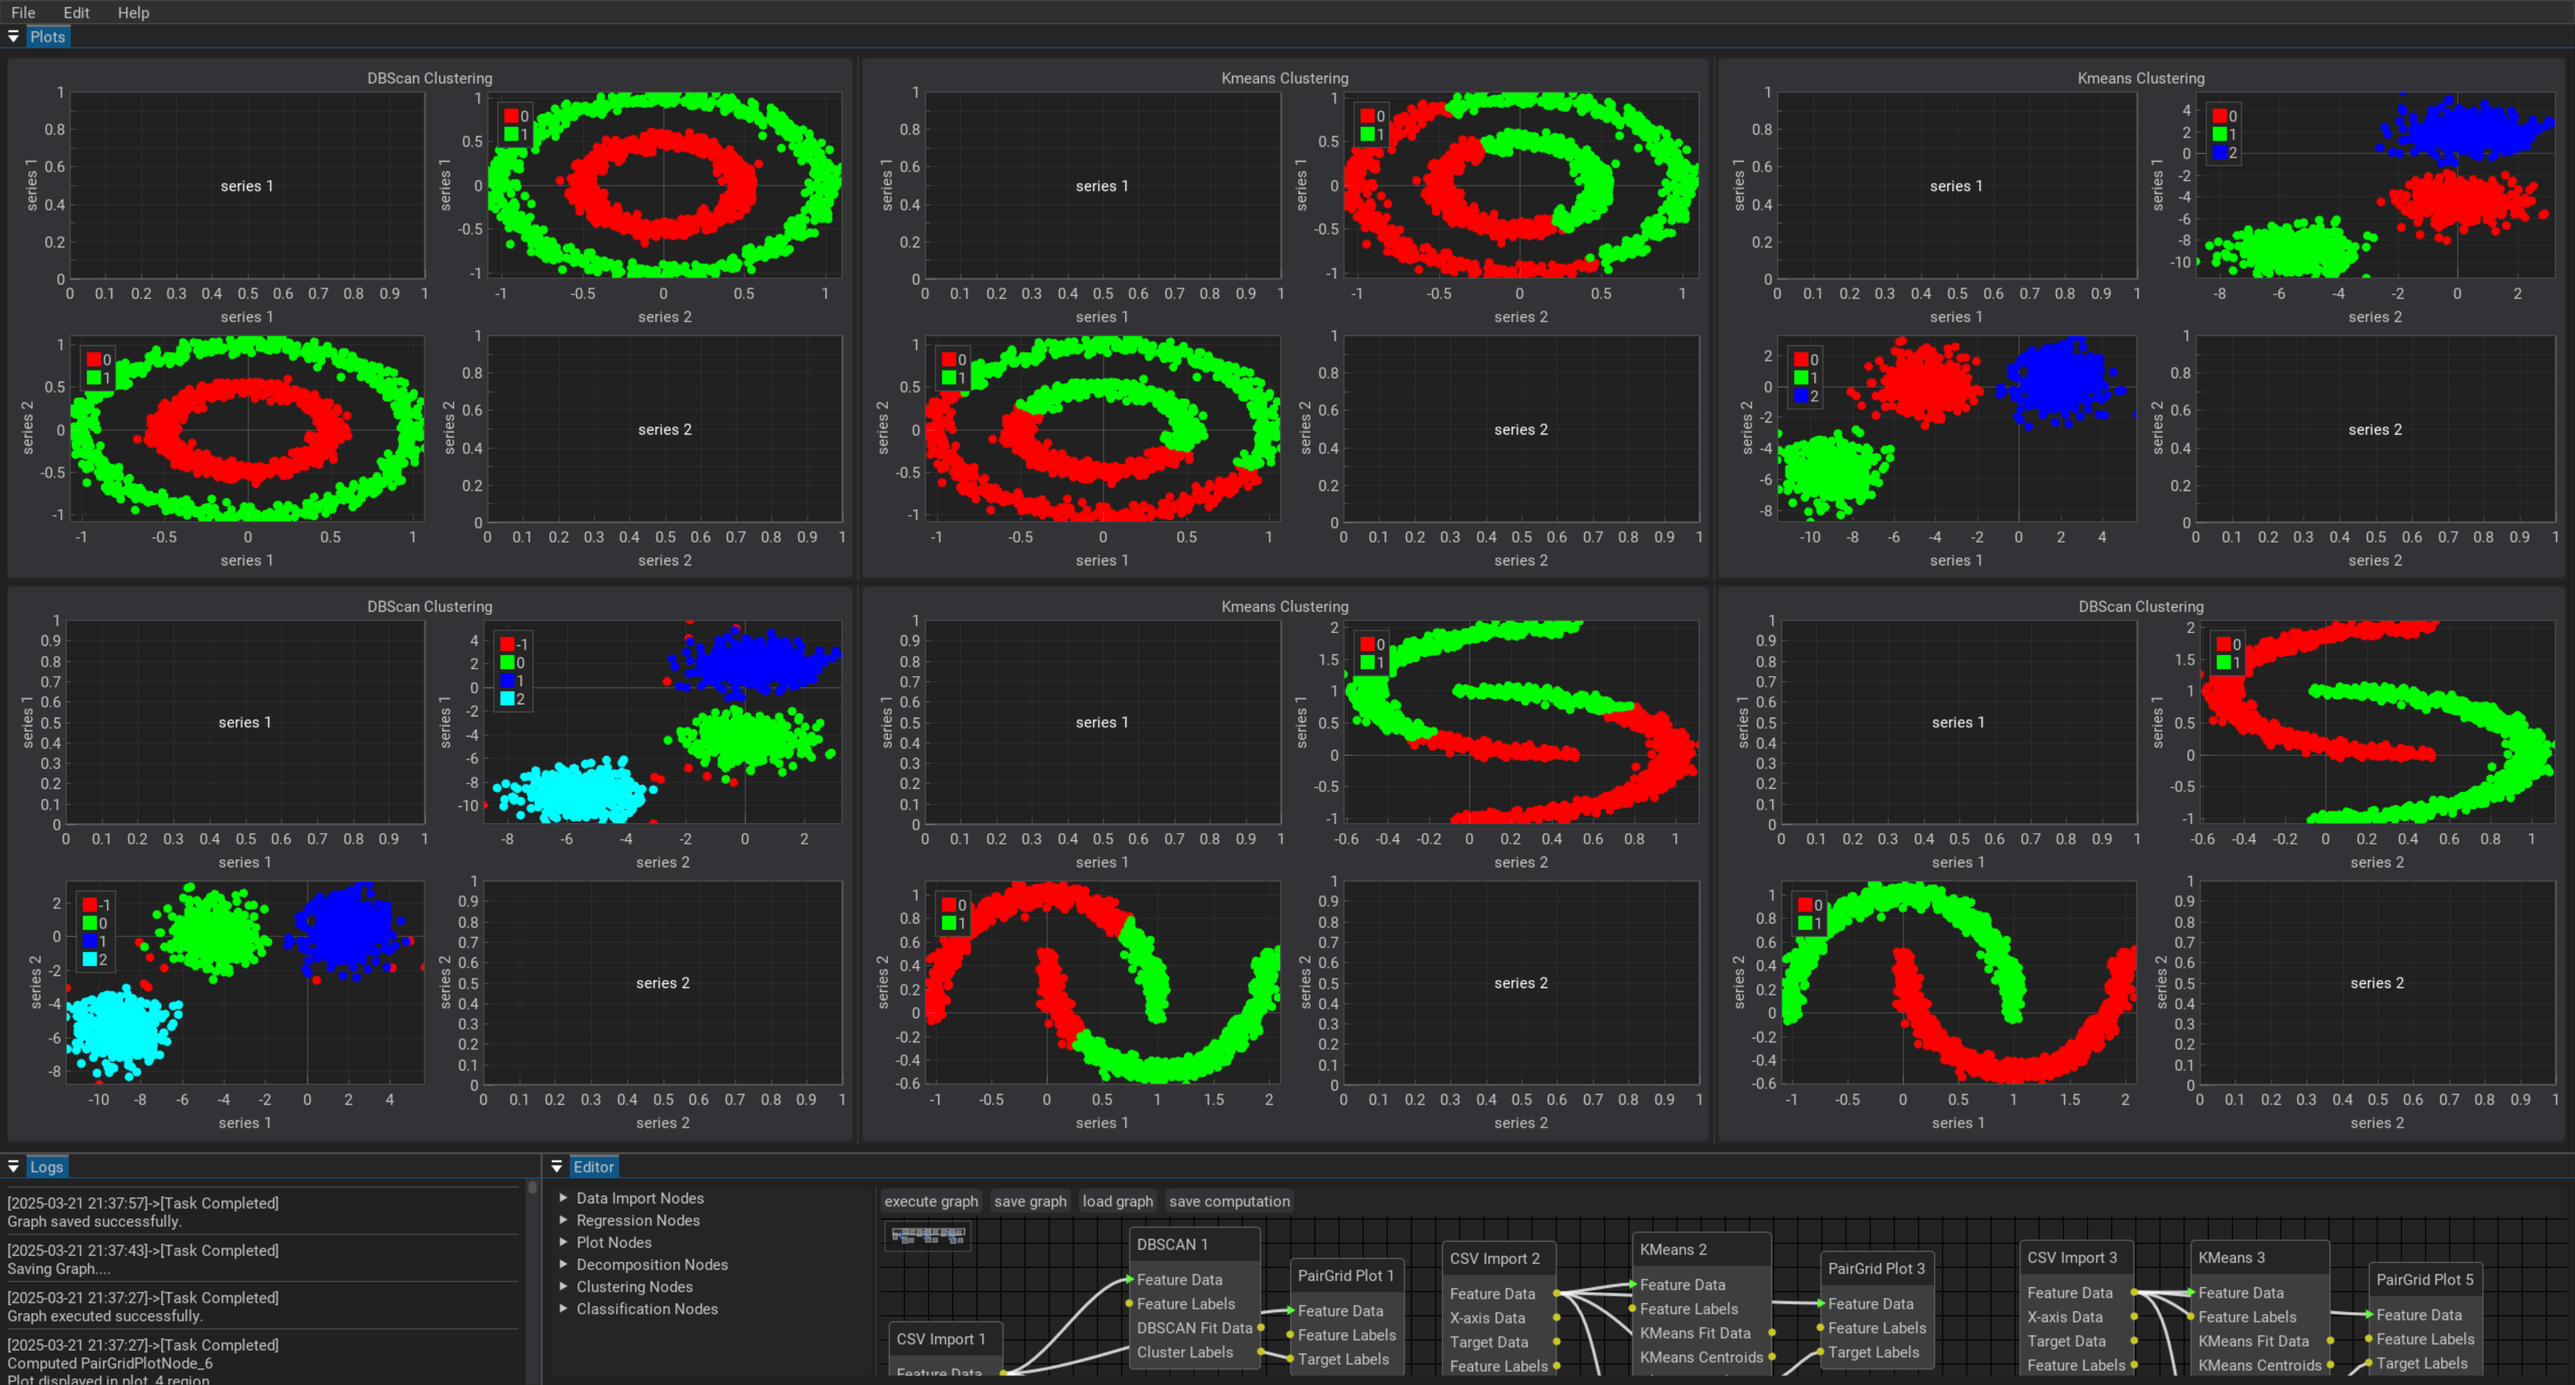
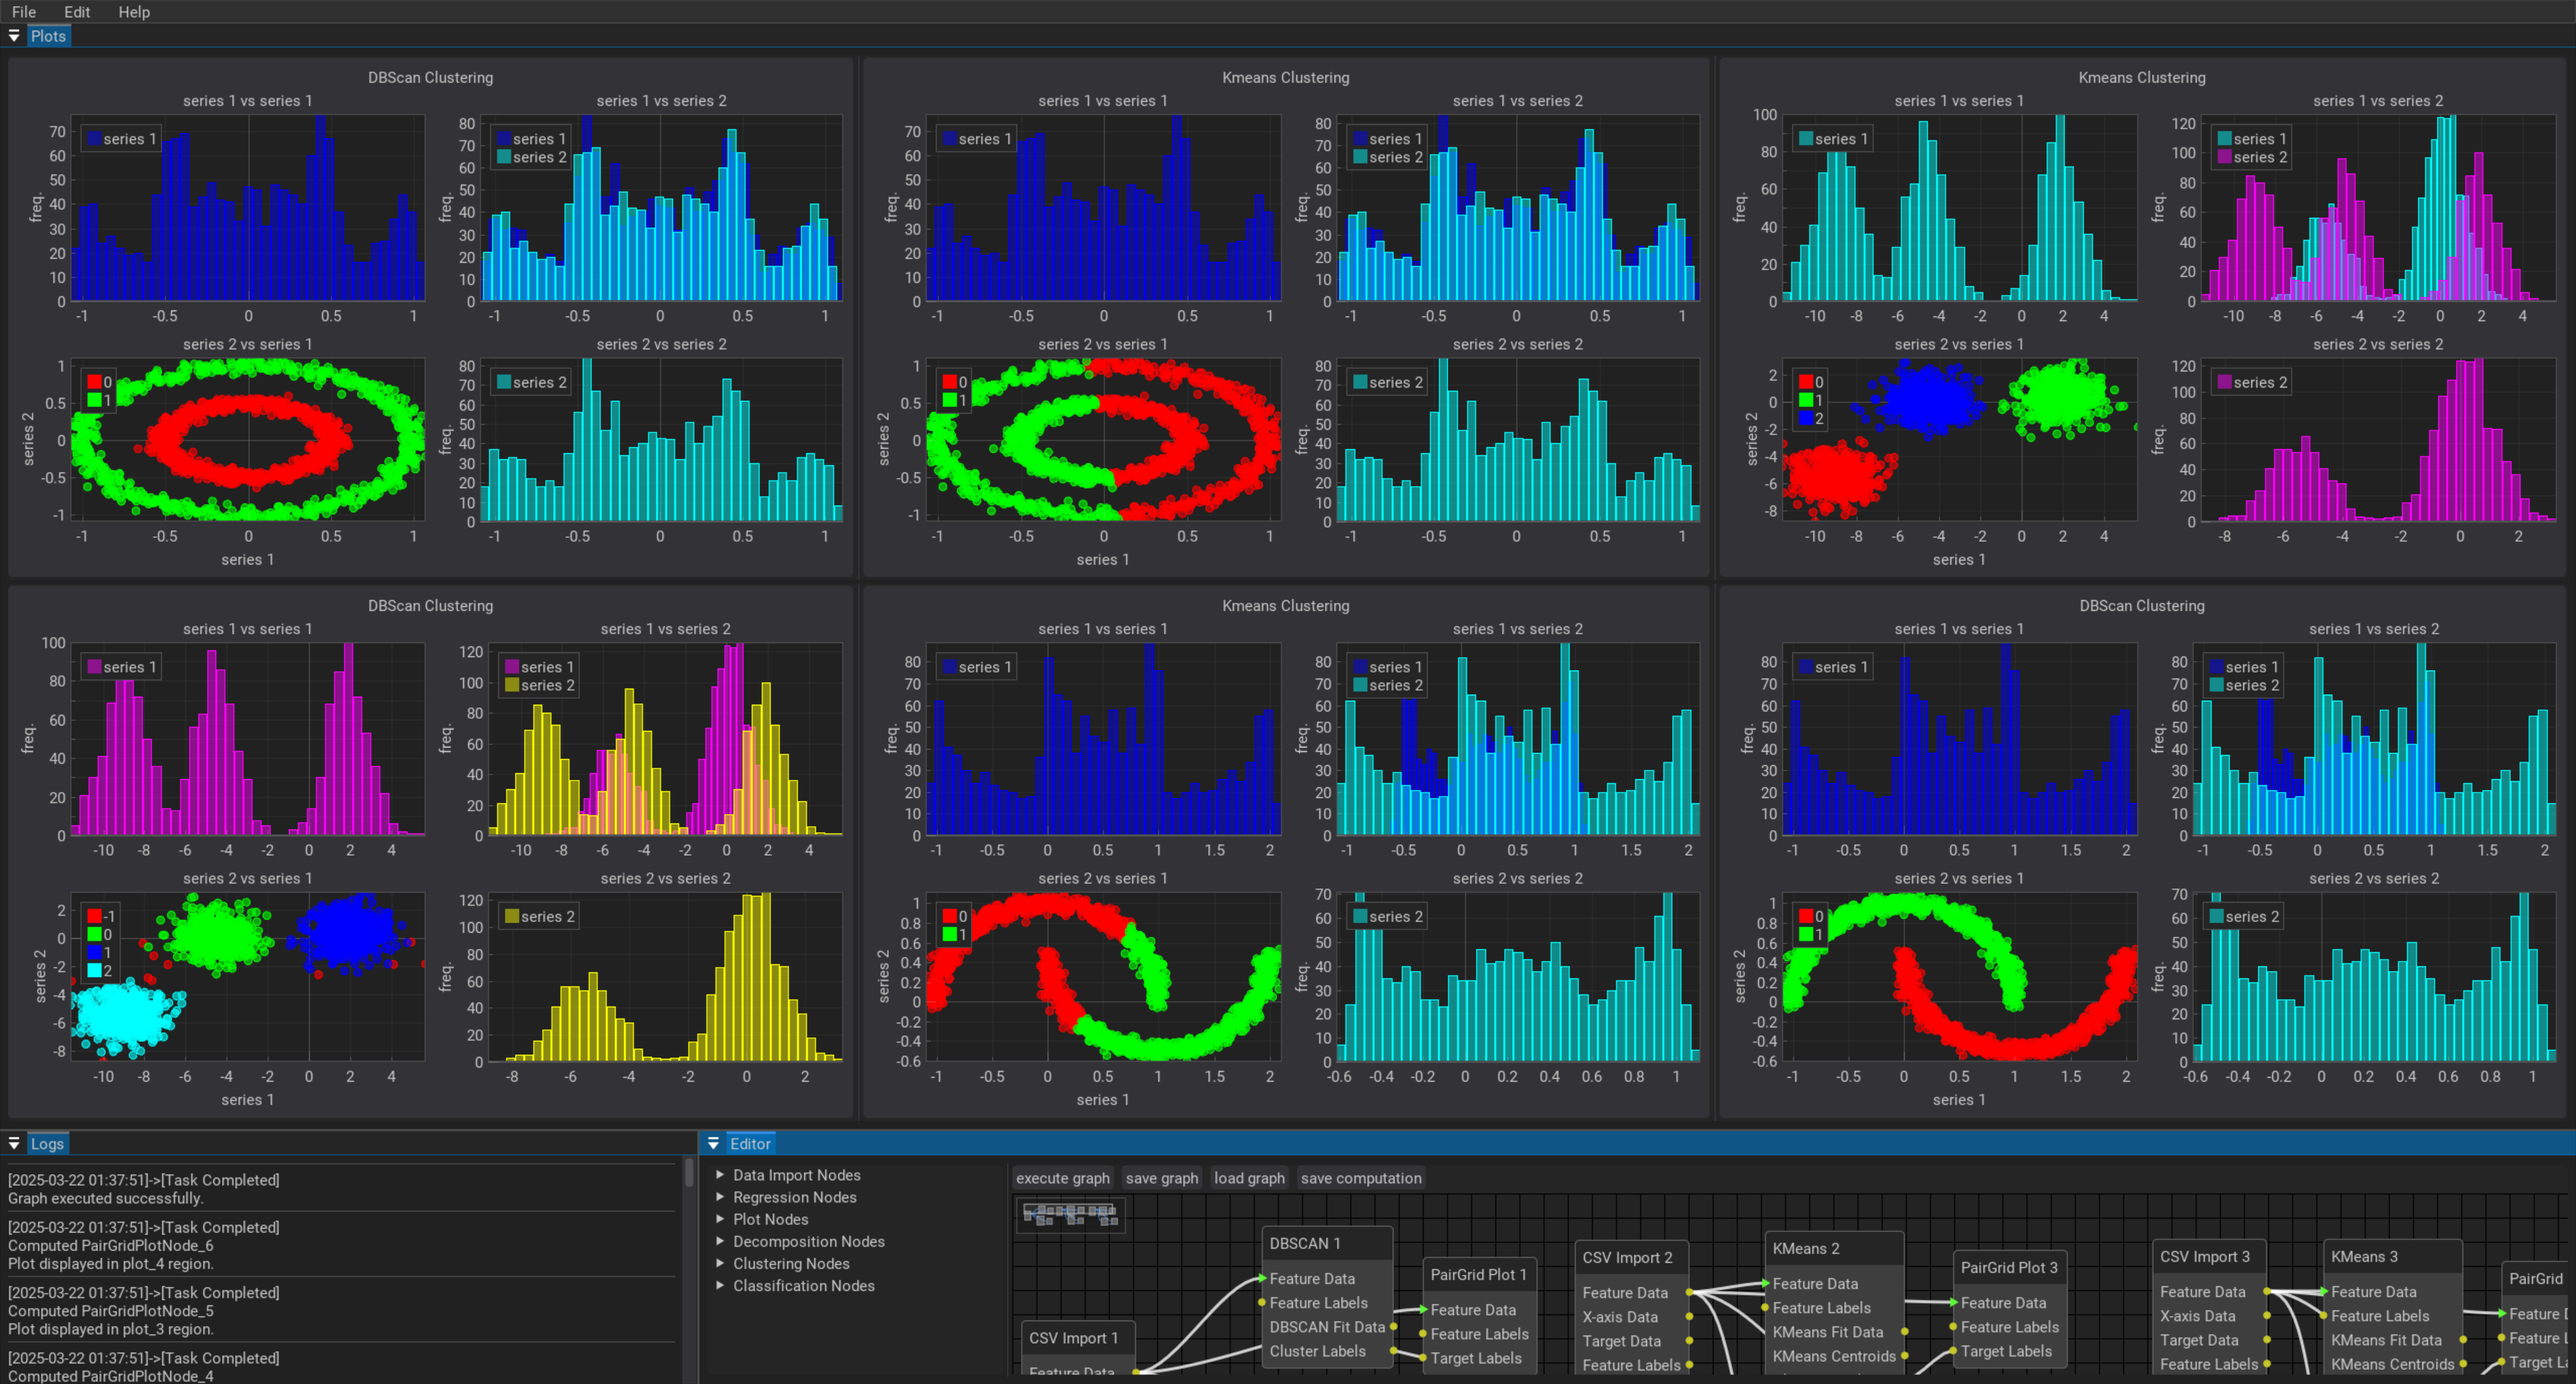
updated pairgrid plot

diff --git a/app/ui/plot_area.py b/app/ui/plot_area.py
@@ -25,12 +25,23 @@ class BasePlot:
                 dpg.add_theme_style(dpg.mvPlotStyleVar_LineWeight, 3, category=dpg.mvThemeCat_Plots)
     
     def create_scatter_theme(self, tag: str, color: tuple[int, int, int, int], marker_style: int = dpg.mvPlotMarker_Circle):
+        adjusted_color = [col for col in color]
+        adjusted_color[-1] = 150
         with dpg.theme(tag=tag):
             with dpg.theme_component(dpg.mvScatterSeries):
-                dpg.add_theme_color(dpg.mvPlotCol_MarkerFill, color, category=dpg.mvThemeCat_Plots)
+                dpg.add_theme_color(dpg.mvPlotCol_MarkerFill, adjusted_color, category=dpg.mvThemeCat_Plots)
                 dpg.add_theme_color(dpg.mvPlotCol_MarkerOutline, color, category=dpg.mvThemeCat_Plots)
                 dpg.add_theme_style(dpg.mvPlotStyleVar_Marker, marker_style, category=dpg.mvThemeCat_Plots)
                 dpg.add_theme_style(dpg.mvPlotStyleVar_MarkerSize, 4, category=dpg.mvThemeCat_Plots)
+    
+    def create_histogram_theme(self, tag: str, color: tuple[int, int, int, int]):
+        adjusted_color = [col for col in color]
+        adjusted_color[-1] = 120
+        with dpg.theme(tag=tag):
+            with dpg.theme_component(dpg.mvHistogramSeries):
+                dpg.add_theme_color(dpg.mvPlotCol_Fill, tuple(adjusted_color), category=dpg.mvThemeCat_Plots)
+                dpg.add_theme_color(dpg.mvPlotCol_Line, color, category=dpg.mvThemeCat_Plots)
+        
     
     def generate_marker_colors(self, num_colors=30):
         colors = []
@@ -210,9 +221,16 @@ class PairGridPlot(BasePlot):
             return
         n_features = min(data.shape[1], 5)
         if plot_data["labels"] is None:
-            labels = [f"Var {i+1}" for i in range(n_features)]
+            feature_labels = [f"Var {i+1}" for i in range(n_features)]
         else:
-            labels = plot_data["labels"]
+            feature_labels = plot_data["labels"]
+        
+        labels_count = len(feature_labels)
+        unique_labels = None
+        if plot_data["target_label"] is not None and \
+            plot_data["target_label"].shape[0] == data.shape[0]:
+            unique_labels = np.unique(plot_data["target_label"])
+            labels_count = len(unique_labels)
         
         self.clear_plot_region(node_params["region"])
         with dpg.subplots(label=f"{node_params['title']}",
@@ -223,34 +241,68 @@ class PairGridPlot(BasePlot):
             for i in range(n_features):
                 for j in range(n_features):
                     cell_tag = f"pairgrid_{i}_{j}_{dpg.generate_uuid()}"
-                    with dpg.plot(label="", height=150, width=150, tag=cell_tag):
+                    with dpg.plot(label=f"{feature_labels[i]} vs {feature_labels[j]}", height=150, width=150, tag=cell_tag):
                         dpg.add_plot_legend()
                         x_axis_tag = cell_tag + "_x"
                         y_axis_tag = cell_tag + "_y"
-                        dpg.add_plot_axis(dpg.mvXAxis, label=labels[j], tag=x_axis_tag)
-                        dpg.add_plot_axis(dpg.mvYAxis, label=labels[i], tag=y_axis_tag)
+                        
                         
                         if i == j:
-                            dpg.add_plot_annotation(label=labels[i], default_value=(0.5, 0.5), parent=cell_tag)
+                            dpg.add_plot_axis(dpg.mvXAxis, label="", tag=x_axis_tag)
+                            dpg.add_plot_axis(dpg.mvYAxis, label="freq.", tag=y_axis_tag)
+
+                            this_plot_tag = cell_tag + f"hist_{feature_labels[i]}"
+                            this_plot_theme = cell_tag + f"hist_theme_{feature_labels[i]}"
+                            dpg.add_histogram_series(data[:, i].tolist(), label=feature_labels[i], parent=y_axis_tag, tag=this_plot_tag)
+                            self.create_histogram_theme(this_plot_theme, self.colors[(labels_count + i) % 30])
+                            dpg.bind_item_theme(this_plot_tag, this_plot_theme)
+                            self.track_tags[node_params["region"]].append(this_plot_theme)
+                            self.track_tags[node_params["region"]].append(this_plot_tag)
                         else:
-                            if plot_data["target_label"] is not None and \
-                                plot_data["target_label"].shape[0] == data.shape[0]:
-                                unique_labels = np.unique(plot_data["target_label"])
-                                for idx, label in enumerate(unique_labels):
-                                    indices = [k for k, l in enumerate(plot_data["target_label"]) if l == label]
-                                    x = data[indices, j].tolist()
-                                    y = data[indices, i].tolist()
-                                    this_plot_tag = cell_tag + f"scatter_{label}_{idx}"
-                                    dpg.add_scatter_series(x, y, label=f"{label}", parent=y_axis_tag, tag=this_plot_tag)
-                                    this_plot_theme = cell_tag + f"_theme_{label}_{idx}"
-                                    self.create_scatter_theme(this_plot_theme, self.colors[idx%30])
-                                    dpg.bind_item_theme(this_plot_tag, this_plot_theme)
-                                    self.track_tags[node_params["region"]].append(this_plot_theme)
-                                    self.track_tags[node_params["region"]].append(this_plot_tag)
+                            if i > j:
+                                dpg.add_plot_axis(dpg.mvXAxis, label=feature_labels[j], tag=x_axis_tag)
+                                dpg.add_plot_axis(dpg.mvYAxis, label=feature_labels[i], tag=y_axis_tag)
+                                if unique_labels is not None:
+                                    for idx, label in enumerate(unique_labels):
+                                        indices = [k for k, l in enumerate(plot_data["target_label"]) if l == label]
+                                        x = data[indices, j].tolist()
+                                        y = data[indices, i].tolist()
+                                        this_plot_tag = cell_tag + f"scatter_{label}_{idx}"
+                                        dpg.add_scatter_series(x, y, label=f"{label}", parent=y_axis_tag, tag=this_plot_tag)
+                                        this_plot_theme = cell_tag + f"_theme_{label}_{idx}"
+                                        self.create_scatter_theme(this_plot_theme, self.colors[idx%30])
+                                        dpg.bind_item_theme(this_plot_tag, this_plot_theme)
+                                        self.track_tags[node_params["region"]].append(this_plot_theme)
+                                        self.track_tags[node_params["region"]].append(this_plot_tag)
+                                else:
+                                    x = data[:, j].tolist()
+                                    y = data[:, i].tolist()
+                                    this_plot_tag_1 = cell_tag + f"scatter_{feature_labels[i]}_{feature_labels[j]}"
+                                    this_plot_theme_1 = cell_tag + f"scatter_theme_{feature_labels[i]}_{feature_labels[j]}"
+                                    dpg.add_scatter_series(x, y, label=f"{feature_labels[j]} vs {feature_labels[i]}", 
+                                                           parent=y_axis_tag, tag=this_plot_tag_1)
+                                    self.create_scatter_theme(this_plot_theme_1, self.colors[(labels_count + i) % 30])
+                                    dpg.bind_item_theme(this_plot_tag_1, this_plot_theme_1)
+                                    self.track_tags[node_params["region"]].append(this_plot_theme_1)
+                                    self.track_tags[node_params["region"]].append(this_plot_tag_1)
                             else:
-                                x = data[:, j].tolist()
-                                y = data[:, i].tolist()
-                                dpg.add_scatter_series(x, y, label=f"{labels[j]} vs {labels[i]}", parent=y_axis_tag)
+                                dpg.add_plot_axis(dpg.mvXAxis, label="", tag=x_axis_tag)
+                                dpg.add_plot_axis(dpg.mvYAxis, label="freq.", tag=y_axis_tag)
+                                y1 = data[:, j].tolist()
+                                y2 = data[:, i].tolist()
+                                this_plot_tag_1 = cell_tag + f"hist_{feature_labels[i]}_{feature_labels[j]}_1"
+                                this_plot_theme_1 = cell_tag + f"hist_theme_{feature_labels[i]}_{feature_labels[j]}_1"
+                                this_plot_tag_2 = cell_tag + f"hist_{feature_labels[i]}_{feature_labels[j]}_2"
+                                this_plot_theme_2 = cell_tag + f"hist_theme_{feature_labels[i]}_{feature_labels[j]}_2"
+
+                                dpg.add_histogram_series(y1, label=f"{feature_labels[i]}", parent=y_axis_tag, tag=this_plot_tag_1)
+                                dpg.add_histogram_series(y2, label=f"{feature_labels[j]}", parent=y_axis_tag, tag=this_plot_tag_2)
+                                self.create_histogram_theme(this_plot_theme_1, self.colors[(labels_count + i) % 30])
+                                self.create_histogram_theme(this_plot_theme_2, self.colors[(labels_count + j) % 30])
+                                dpg.bind_item_theme(this_plot_tag_1, this_plot_theme_1)
+                                dpg.bind_item_theme(this_plot_tag_2, this_plot_theme_2)
+                                self.track_tags[node_params["region"]].append(this_plot_theme_1)
+                                self.track_tags[node_params["region"]].append(this_plot_theme_2)
                             
                         dpg.fit_axis_data(x_axis_tag)
                         dpg.fit_axis_data(y_axis_tag)
